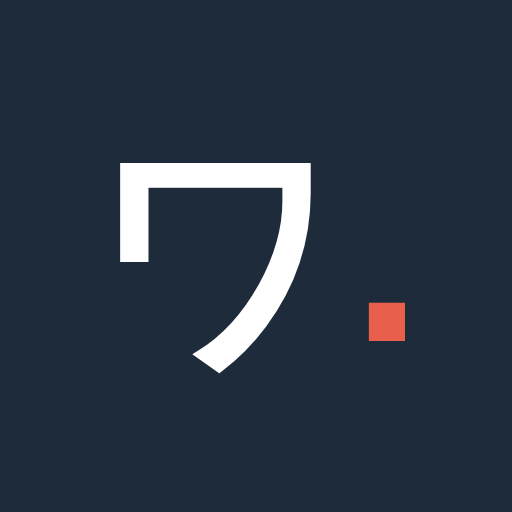
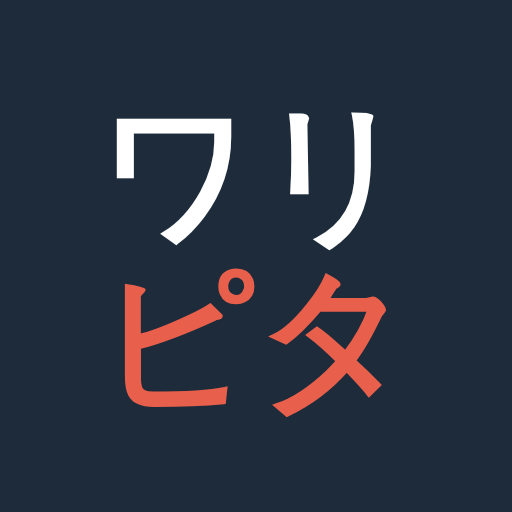
アプリ名を「ワリピタ」に変更し、ロゴらしいデザインに刷新
- 名称変更: ワリカン → ワリピタ（割り勘がピタッと合う、の意）
  タイトル・ヘッダー・manifest・PWA名・各種文言を更新
- ロゴ: M PLUS Rounded 1c(丸ゴシック800)のロゴタイプに変更。
  「ピタ」をアクセント色にし、グロー付きのドットを添えたロゴ風の見た目に
- 見出し(h2)とページタブにも同フォントを適用してアプリらしさを統一
- アイコンを「ワリ/ピタ」2段組の新デザインで再生成
- localStorageキーは変更せず既存データはそのまま使える。SWキャッシュv5

Claude-Session: https://claude.ai/code/session_01TPFcGvHATxZKmpzY3FZtq7

Changed region(s): [[0.2188, 0.2188, 0.8125, 0.8125]]

diff --git a/warikan/index.html b/warikan/index.html
@@ -3,21 +3,24 @@
 <head>
   <meta charset="UTF-8">
   <meta name="viewport" content="width=device-width, initial-scale=1.0">
-  <title>ワリカン〜友達間割り勘〜</title>
+  <title>ワリピタ〜友達間割り勘〜</title>
   <meta name="theme-color" content="#1d2b3a">
   <link rel="manifest" href="manifest.json">
   <link rel="icon" type="image/png" href="icon-192.png">
   <link rel="apple-touch-icon" href="icon-180.png">
   <meta name="apple-mobile-web-app-capable" content="yes">
   <meta name="apple-mobile-web-app-status-bar-style" content="default">
-  <meta name="apple-mobile-web-app-title" content="ワリカン">
+  <meta name="apple-mobile-web-app-title" content="ワリピタ">
+  <link rel="preconnect" href="https://fonts.googleapis.com">
+  <link rel="preconnect" href="https://fonts.gstatic.com" crossorigin>
+  <link href="https://fonts.googleapis.com/css2?family=M+PLUS+Rounded+1c:wght@700;800&display=swap" rel="stylesheet">
   <link rel="stylesheet" href="style.css">
 </head>
 <body>
 
   <header>
     <div class="header-inner">
-      <h1>ワリカン<span class="accent-dot">.</span></h1>
+      <h1 class="logo">ワリ<span class="logo-accent">ピタ</span><span class="logo-mark"></span></h1>
       <p>友達間の割り勘精算 — ログイン不要</p>
     </div>
   </header>
@@ -210,7 +213,7 @@
        </div>
 
        <p class="danger-zone">
-         <button class="btn-delete btn-sm" onclick="resetAll()">この端末のワリカンのデータをすべて削除</button>
+         <button class="btn-delete btn-sm" onclick="resetAll()">この端末のワリピタのデータをすべて削除</button>
        </p>
       </div>
 

diff --git a/warikan/style.css b/warikan/style.css
@@ -30,14 +30,29 @@ header {
   padding: 22px 16px 20px;
 }
 
-.header-inner h1 {
-  font-size: 21px;
+.logo {
+  font-family: 'M PLUS Rounded 1c', "Hiragino Kaku Gothic ProN", "Hiragino Sans", sans-serif;
+  font-size: 27px;
   font-weight: 800;
-  letter-spacing: 0.14em;
+  letter-spacing: 0.04em;
+  display: inline-flex;
+  align-items: baseline;
+  line-height: 1.2;
 }
 
-.accent-dot {
+.logo-accent {
   color: var(--accent);
+}
+
+.logo-mark {
+  width: 9px;
+  height: 9px;
+  border-radius: 50%;
+  background: var(--accent);
+  margin-left: 5px;
+  align-self: flex-end;
+  margin-bottom: 6px;
+  box-shadow: 0 0 0 3px rgba(232, 96, 76, 0.25);
 }
 
 .header-inner p {
@@ -63,8 +78,9 @@ main {
 }
 
 h2 {
+  font-family: 'M PLUS Rounded 1c', "Hiragino Kaku Gothic ProN", "Hiragino Sans", sans-serif;
   font-size: 15px;
-  font-weight: 700;
+  font-weight: 800;
   letter-spacing: 0.04em;
   margin-bottom: 12px;
   display: flex;
@@ -264,10 +280,10 @@ select:focus {
   border-radius: 9px;
   padding: 11px 4px;
   font-size: 13.5px;
-  font-weight: 600;
+  font-weight: 700;
   cursor: pointer;
   color: var(--muted);
-  font-family: inherit;
+  font-family: 'M PLUS Rounded 1c', "Hiragino Kaku Gothic ProN", "Hiragino Sans", sans-serif;
   white-space: nowrap;
 }
 

diff --git a/warikan/app.js b/warikan/app.js
@@ -1143,7 +1143,7 @@ function exportHistoryCSV() {
 
 // ===== 全データ削除 =====
 function resetAll() {
-  if (!confirm('この端末に保存されたワリカンのデータ（全イベント・全記録）を削除する？')) return;
+  if (!confirm('この端末に保存されたワリピタのデータ（全イベント・全記録）を削除する？')) return;
   if (!confirm('本当に削除する？元に戻せないよ')) return;
   localStorage.removeItem(STORAGE_KEY);
   store = loadStore();

diff --git a/warikan/sw.js b/warikan/sw.js
@@ -1,6 +1,6 @@
-// ワリカン Service Worker
+// ワリピタ Service Worker
 // ネット優先で取得しつつキャッシュを更新、オフライン時はキャッシュから返す
-const CACHE = 'warikan-v4';
+const CACHE = 'warikan-v5';
 const ASSETS = [
   './',
   './index.html',
